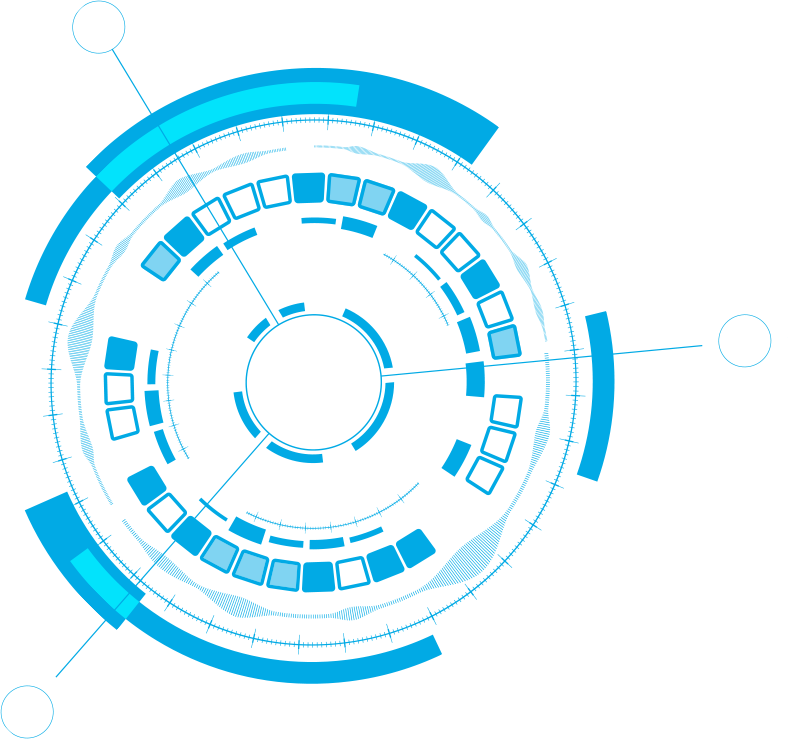
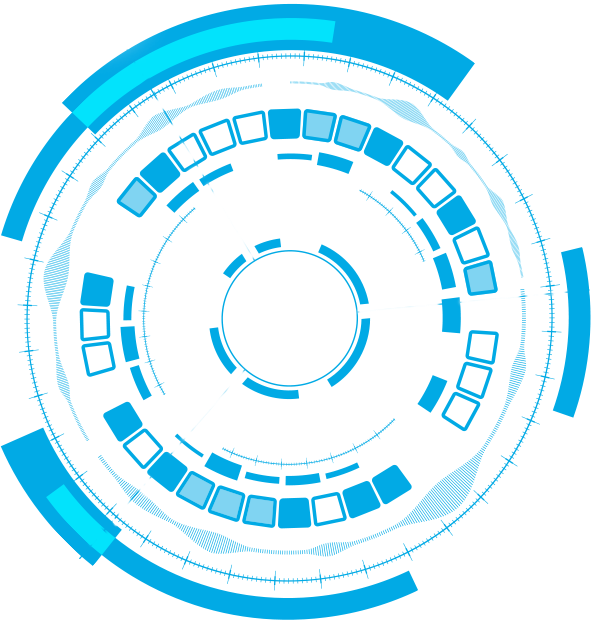
update

diff --git a/src/page/Home/components/CentralNews.vue b/src/page/Home/components/CentralNews.vue
@@ -180,7 +180,7 @@ export default {
     // 实时请求新数据 5s
     loopFetchData() {
       setInterval(() => {
-        this.$http.post("Ma_zong/controlCenter").then(res => {
+        this.$http.post("Ma_zong/controlCenter", { tag: "njdh" }).then(res => {
           let data = res.data.data;
           if (data.length) {
             this.featchData.push(...res.data.data);
@@ -563,34 +563,36 @@ export default {
     overflow: hidden;
     position: absolute;
     &:before {
-      width: 788px;
-      height: 739px;
+      width: 591px;
+      height: 620px;
       display: block;
       content: "";
       background: url("~@/assets/circle.png") no-repeat;
       animation-fill-mode: both;
+      opacity: 0.6;
     }
   }
   &-bg:nth-child(1) {
-    width: 490px;
-    height: 606px;
     top: 34px;
     left: 22px;
+    width: 344px;
     &:before {
-      margin-left: -300px;
-      transform-origin: 313px 342px;
-      background-position: 0 -42px;
+      width: 591px;
+      height: 607px;
+      margin-left: -280px;
+      transform-origin: 291.5px 320.5px;
       animation: anim-circle 60s linear infinite;
     }
   }
   &-bg:nth-child(2) {
-    width: 490px;
-    height: 602px;
     top: 39px;
     right: 27px;
+    width: 344px;
     &:before {
-      transform-origin: 500px 340px;
-      background-position: 185px -48px;
+      width: 591px;
+      height: 602px;
+      margin-left: 76px;
+      transform-origin: 291.5px 320.5px;
       animation: anim-circle-anticlockwise 60s linear infinite;
     }
   }

diff --git a/src/components/FailureItem.vue b/src/components/FailureItem.vue
@@ -1,31 +1,30 @@
 <template>
-<div class="box">
-  <div class="body">
-    <div class="img">
-      <img :src="'http://127.0.0.1/znyw3.0/PHP/public'+data.fault_img_url" alt="路口图片">
-    </div>
-    <div class="info">
-      <div class="item">
-        {{data.crossing_name}}
-        <div class="msg"></div>
+  <div class="box">
+    <div class="body">
+      <div class="img">
+        <img :src="'http://127.0.0.1/znyw3.0/PHP/public'+data.fault_img_url" alt="路口图片">
       </div>
-      <div class="item">
-        告警等级
-        <div class="msg" :class="levelClass">
+      <div class="info">
+        <div class="item">
+          {{data.crossing_name}}
+          <div class="msg"></div>
+        </div>
+        <div class="item">
+          告警等级
+          <div class="msg" :class="levelClass">
+          </div>
+        </div>
+        <div class="item">
+          派发状态
+          <div class="msg ok">{{dispatch[data.is_dispatch]}}</div>
         </div>
       </div>
-      <div class="item">
-        派发状态
-        <div class="msg ok">{{dispatch[data.is_dispatch]}}</div>
-      </div>
+    </div>
+    <div class="footer">
+      故障原因：
+      <span>{{data.memo}}</span>
     </div>
   </div>
-  <div class="footer">
-    故障原因：
-    <span>{{data.memo}}</span>
-  </div>
-        
-</div>
 </template>
 
 <script>
@@ -42,8 +41,7 @@ export default {
       }
     };
   },
-  created() {
-  },
+  created() {},
   computed: {
     levelClass() {
       let obj = {};

diff --git a/src/page/Home/components/Failure.vue b/src/page/Home/components/Failure.vue
@@ -3,8 +3,7 @@
     <div class="title hightlight">故障原因</div>
     <Carousel radius-dot arrow='never' v-model="selectIndex" :style="{width:'479px',height:'615px'}" class="my-carousel">
       <CarouselItem v-for="item in carouselItemCounts" :key="item" :name="item">
-         <YFailure v-for="item2 in carouselItemArray[item]" :key="item2" :data="data[3*(item-1)+item2-1]"/>
-       <!--   -->
+        <YFailure v-for="item2 in carouselItemArray[item]" :key="item2" :data="data[3*(item-1)+item2-1]" />
       </CarouselItem>
     </Carousel>
   </div>
@@ -19,7 +18,7 @@ export default {
   props: {
     data: Array
   },
-  name:"failure",
+  name: "failure",
   data() {
     return {
       // 当前选中的下标
@@ -27,12 +26,10 @@ export default {
       // 走马灯个数
       carouselItemCounts: 0,
       // 走马灯里面的item个数
-      carouselItemArray: {},
-      
+      carouselItemArray: {}
     };
   },
-  created() {
-  },
+  created() {},
   computed: {
     msgFailure() {
       return this.$store.state.msgFailure;

diff --git a/src/page/Home/components/Origin.vue b/src/page/Home/components/Origin.vue
@@ -68,11 +68,12 @@ export default {
       this.organize_show_selected = data.o_id;
       this.$http
         .post("Ma_zong/crossingBox", {
-          o_id: data.o_id
+          o_id: data.o_id,
+          tag: "njdh"
         })
         .then(res => {
           console.log(res.data);
-          
+
           let data = res.data;
           this.childData = data.data;
           this.$store.commit("setCrossingBox", data.data);

diff --git a/src/page/Home/components/OnOffLine.vue b/src/page/Home/components/OnOffLine.vue
@@ -109,7 +109,7 @@ export default {
     },
     isLogin() {
       setInterval(() => {
-        this.$http.post("Ma_zong/onlineRadio").then(res => {
+        this.$http.post("Ma_zong/onlineRadio", { tag: "njdh" }).then(res => {
           if (res.data) {
             this.ON = res.data.data.on_radio;
             this.OFF = res.data.data.off_radio;

diff --git a/src/page/Home/components/Nodes.vue b/src/page/Home/components/Nodes.vue
@@ -68,7 +68,7 @@ export default {
     },
     isLogin() {
       setInterval(() => {
-        this.$http.post("Ma_zong/nodeNumber").then(res => {
+        this.$http.post("Ma_zong/nodeNumber", { tag: "njdh" }).then(res => {
           if (res.data) {
             this.SUM = res.data.data.sum;
             this.ONLINE = res.data.data.online;

diff --git a/src/page/Home/components/VideoChannel.vue b/src/page/Home/components/VideoChannel.vue
@@ -69,7 +69,8 @@ export default {
     loadData() {
       this.$http
         .post("Ma_zong/playVideo", {
-          dev_code: this.dropMenuSelected.dev_code
+          dev_code: this.dropMenuSelected.dev_code,
+          tag: "njdh"
         })
         .then(res => {
           let data = res.data;

diff --git a/src/main.js b/src/main.js
@@ -6,7 +6,7 @@ import iView from "iview";
 import axios from "axios";
 import store from "./store";
 
-import "@/mock";
+// import "@/mock";
 import "iview/dist/styles/iview.css";
 import "vue2-scrollbar/dist/style/vue2-scrollbar.css";
 import "./style/index.less";

diff --git a/src/page/Home/Index.vue b/src/page/Home/Index.vue
@@ -75,7 +75,7 @@ export default {
   methods: {
     loadData() {
       this.$http
-        .post("Ma_zong/indexAllData")
+        .post("Ma_zong/indexAllData", { tag: "njdh" })
         .then(res => {
           let data = res.data.data;
           if (data) {
